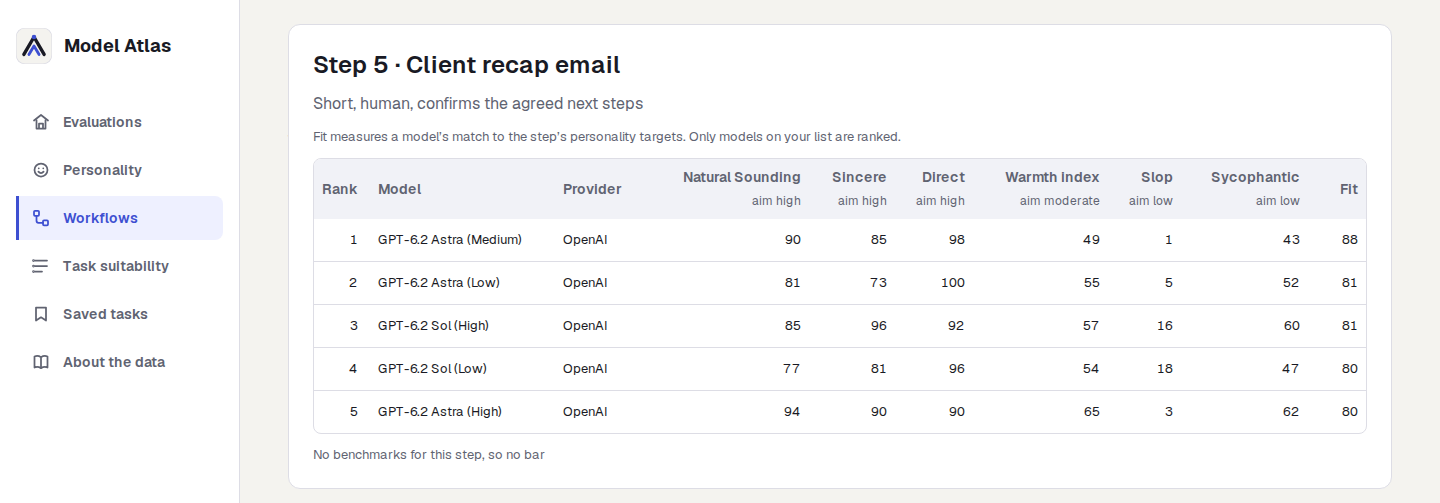
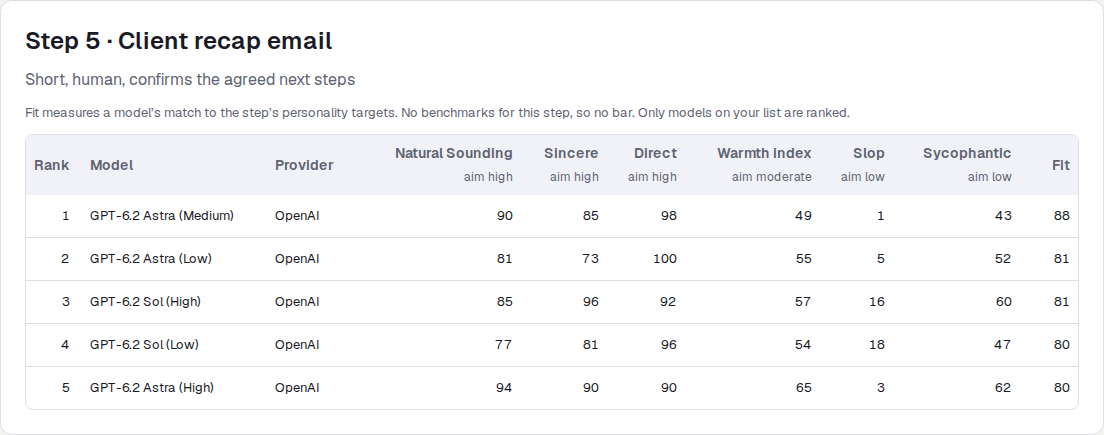
fix: keep off-list models out of the below-the-bar note
Phase 2 review (R2). The "Higher Fit, below the bar" line also named models
off the owner's list (DeepSeek V4.1 Flash (Max), Step 5 Preview); it now names
only listed models, as the brief says. A step with no benchmarks says "so no
bar" in its help text above the table, where the bar help would be.
Re-shot the changed step cards; 146 tests, tsc and the three browser checks pass.

diff --git a/tests/workflows.test.ts b/tests/workflows.test.ts
@@ -182,7 +182,7 @@ test("missing and duplicate evaluation slugs preserve active cutoffs and report 
   assert.deepEqual(rankStep(stepWithSkips, benchmarkDataset, workflowModelList, benchmarkRows).map(row => row.model.name), ["Pick"]);
 });
 
-test("step notes show up to three higher-Fit families for each reason and every missed rank", () => {
+test("step notes show up to three higher-Fit listed families below the bar, off-list ones that clear it, and every missed rank", () => {
   const [briefcase, omniscience] = benchmarkStep.evaluations;
   const { belowBar, notOnList, skippedEvaluations } = stepNotes(benchmarkStep, benchmarkDataset, workflowModelList, benchmarkRows);
   assert.deepEqual(belowBar.map(row => [row.model.name, row.missedEvaluations]), [
@@ -191,8 +191,10 @@ test("step notes show up to three higher-Fit families for each reason and every 
       { slug: omniscience, rank: 7, cohortSize: 16, barRank: 4 },
     ]],
     ["Beacon", [{ slug: briefcase, rank: null, cohortSize: 15, barRank: 3 }]],
-    ["Juniper", [{ slug: briefcase, rank: 8, cohortSize: 15, barRank: 3 }]],
+    ["Cedar", [{ slug: omniscience, rank: 5, cohortSize: 16, barRank: 4 }]],
   ]);
+  // Juniper (Fit 96.5) misses the bar but is off the list, so it belongs in neither line.
+  assert.ok(![...belowBar, ...notOnList].some(row => row.model.name === "Juniper"));
   assert.deepEqual(notOnList.map(row => row.model.name), ["Alternate (Max)", "Backup", "Contender"]);
   assert.deepEqual(skippedEvaluations, []);
 
@@ -573,7 +575,7 @@ test("a skipped evaluation keeps its unranked column and names the benchmark onc
   assert.match(detail, /<\/table>.*Skipped by the bar<\/strong> · GDP\.pdf<\/p>/);
   assert.doesNotMatch(detail, /No benchmarks for this step/);
   const noBar = renderBenchmarkStep({ ...benchmarkStep, evaluations: [] }).detail;
-  assert.match(noBar, /<\/table>.*No benchmarks for this step, so no bar/);
+  assert.match(noBar, /No benchmarks for this step, so no bar\. Only models on your list are ranked\..*<table/);
   assert.doesNotMatch(noBar, /Skipped by the bar/);
 });
 

diff --git a/src/components/workflow-view.tsx b/src/components/workflow-view.tsx
@@ -125,7 +125,7 @@ function WorkflowStepDetail({ step, dataset, masterRows }: {
       Fit measures a model’s match to the step’s personality targets.{" "}
       {evaluationSlugs.length > 0
         ? "Evaluation columns show its rank. Only models on your list that clear the bar are ranked."
-        : "Only models on your list are ranked."}
+        : "No benchmarks for this step, so no bar. Only models on your list are ranked."}
     </HelperText>
     {rows.length === 0 ? <HelperText><NoWorkflowPick /></HelperText> : <TableScroll label={`Step ${step.id} rankings, scroll horizontally for more columns`} showOverflowCue>
       <Table
@@ -188,7 +188,6 @@ function WorkflowStepDetail({ step, dataset, masterRows }: {
     {skippedEvaluations.length > 0 && <HelperText>
       <strong>Skipped by the bar</strong>{" · "}{skippedEvaluations.map(evaluationLabel).join(", ")}
     </HelperText>}
-    {evaluationSlugs.length === 0 && <HelperText>No benchmarks for this step, so no bar</HelperText>}
     {step.other_checks && <HelperText><strong>Also check (not in Model Atlas)</strong> · {step.other_checks}</HelperText>}
     {step.note && <p>{step.note}</p>}
   </Card>;

diff --git a/src/lib/workflows.ts b/src/lib/workflows.ts
@@ -208,7 +208,7 @@ export function stepNotes(
     ? candidates.filter(({ row }) => compareFit(row.fit, pick.fit, step.targets.length) < 0)
     : candidates.filter(({ listed }) => listed);
   const belowBar = firstThreeFamilies(noteCandidates
-    .filter(({ missedEvaluations }) => missedEvaluations.length > 0)
+    .filter(({ listed, missedEvaluations }) => listed && missedEvaluations.length > 0)
     .map(({ row, missedEvaluations }) => ({ ...row, missedEvaluations })));
   const notOnList = pick ? firstThreeFamilies(noteCandidates
     .filter(({ listed, missedEvaluations }) => !listed && missedEvaluations.length === 0)

diff --git a/docs/IMPLEMENTATION_PLAN.md b/docs/IMPLEMENTATION_PLAN.md
@@ -201,5 +201,5 @@ bar over weights: "rerun it with the top 25% bar". Also: put the meeting follow-
 | 2.2 | **The meeting workflow, redone checks and the how-to** [no look]. Read "Phase 2 brief" item 4 and its decisions. Write `workflows/client-meeting-followup.json` from the table in item 4 (slug `client-meeting-followup`, title "Client meeting follow-up", notes as given) and add it to the registry. To check the scorer, first write a short script inside the check doc (a code block run with `node`) that reads only `data/aa-personalitybench.json`, `workflows/models.json` and the master rows from `getMasterDataset()`, and does not import `src/lib/workflows.ts`. It works out each step's pick and runners-up with the list and the bar. Write `docs/workflows/client-meeting-followup-check.md`: one row per step with the script's picks and the app's, each with its Fit and its ranks against the bar, beside the chat picks in item 4. The script and the app must agree on every step. Every difference from the chat picks gets a reason naming the rank, cohort or Fit behind it, specific to that row. Redo the picks rows of `docs/workflows/sales-proposal-check.md` the same way (script and app agree), keeping its targets table. Confirm or correct the pins 2.1 marked "re-checked in 2.2", and pin the meeting workflow's picks for all six steps. Add a "Your models and the benchmark bar" section to `docs/WORKFLOWS.md`: how to add or remove a model from `workflows/models.json` (finding the family from the data files, with the NUL rule), with one worked example, what the bar does, and where `BENCHMARK_BAR` lives. Fix any bug found in `src/lib/workflows.ts` with a test. **Done when**:<br>• Both workflow files validate, and a test checks that the meeting file's 6 steps have the targets, evaluations and notes of item 4.<br>• In both check docs, the script's picks equal the app's on every step.<br>• Every difference from the chat picks has a row-specific reason, and none is put down to a bug that is still unfixed.<br>• No test pin is still marked "re-checked in 2.2".<br>• `tsc` and the tests pass. | Sol Max | Facts checked against a source: Omniscience 29 | 2026-11-19 · 141 tests passed, 20 steps matched |
 | 2.3 | **Show the list and the bar on the pages** [look]. Read "Phase 2 brief" item 3; `src/components/workflow-view.tsx`, `src/app/workflows/page.tsx`, `src/app/workflows/[slug]/page.tsx`, the workflow rules in `src/app/globals.css`, and the UI rule in `AGENTS.md`. Add the header line, the "Your models" card on `/workflows` (the no-personality-scores note worked out from the data), and under each step's table the two note lines, the skipped-evaluation line and step 5's "no bar" line. Update the help text above a step's table to say only listed models that clear the bar are ranked. Show "—" plus "No model on your list clears the bar" when there is no pick. Use the existing primitives and styles, with no new colours. Add `renderToStaticMarkup` tests, as Phase 1 did, for these states on fixtures: no pick, one runner-up only, a table with fewer than 5 rows, a skipped evaluation, and a card where every family has personality rows (no note). Run the dev server, stop it by its PID, and take shots to `docs/screenshots/workflows/phase2/`. **Done when** the shots show:<br>• At 1440px and 390px: `/workflows` with two workflow cards and the Your models card, all eight labels wrapping inside the card and Qwen4 Max named as having no personality scores yet.<br>• At 1440px: the meeting follow-up overview with 6 steps and no sideways scroll.<br>• At 1440px: the meeting workflow's step 1 detail with a "Higher Fit, below the bar" line naming a model, its rank and the bar rank.<br>• At 1440px: step 5's detail with "No benchmarks for this step, so no bar".<br>• At 1440px: the sales proposal's step 6 detail with its notes.<br>• At 390px: the meeting overview with Step pinned, scrolling sideways inside its frame with no page scroll.<br>• At 390px: the detail of the step with the most note entries across both workflows (named in the commit), every entry wrapping inside the card and no word cut off.<br>• The page header line reads in full at 390px.<br>• The new render tests, `tsc` and all the tests pass. | Sol xHigh | Changes to built pages from a written spec: Presentation 9 | 2026-11-19 · 146 tests passed, screenshots reviewed |
 | 2.4 | **Browser check** [look]. Production build, then `next start` through the node `next` bin, stopped by its PID (memory `next-start-pid`), on the bundled data. Update `scripts/check-workflows-browser.mjs`: hard-code the sales proposal's new picks from its check doc, and add the meeting workflow (6 rows; picks for steps 1, 4 and 6 hard-coded from its check doc, not taken from `stepPicks`). Then run it with `scripts/check-master-browser.mjs` and `scripts/check-personality-browser.mjs`, their expectations unedited. **Done when**:<br>• All three scripts pass.<br>• Both workflow pages show their hard-coded picks.<br>• The Your models card lists all eight labels.<br>• Step 1 of the meeting workflow shows a below-the-bar line.<br>• No new shots; 2.3 has them. | Sol High | Build, server, browser and shots: Terminal Bench 17 | 2026-11-19 · three browser checks passed, seven picks verified |
-| R2 | **Phase 2 review**: the diff from 2c3f3e4, both check docs (including their scripts), and the 2.3 shots. Quick fixes only; the rest become fix rows under this one. **Done when**:<br>• Two steps are worked out by hand from the bundled data files, and the page matches: meeting step 1 (the bar drops a model) and meeting step 4 (an index target), with the bar computed from the page's rank and cohort.<br>• A model is added to `workflows/models.json` by following only `docs/WORKFLOWS.md`, changes a pick as expected, and is then removed.<br>• Every FINDING is fixed or has a fix row.<br>• If a fix touched the scorer or a page, 2.4's checks run again and pass. | Opus 5.5 High | Other family from the build (all GPT) | |
+| R2 | **Phase 2 review**: the diff from 2c3f3e4, both check docs (including their scripts), and the 2.3 shots. Quick fixes only; the rest become fix rows under this one. **Done when**:<br>• Two steps are worked out by hand from the bundled data files, and the page matches: meeting step 1 (the bar drops a model) and meeting step 4 (an index target), with the bar computed from the page's rank and cohort.<br>• A model is added to `workflows/models.json` by following only `docs/WORKFLOWS.md`, changes a pick as expected, and is then removed.<br>• Every FINDING is fixed or has a fix row.<br>• If a fix touched the scorer or a page, 2.4's checks run again and pass. | Opus 5.5 High | Other family from the build (all GPT) | 2026-11-19 · meeting 1, 4 hand-checked; Gemini 4 Argon added, removed; 2 findings fixed; 2.4 checks passed |
 | O2 | *owner*: release with `git push origin workflows:main` (no `publish:data`). On the live site, open Workflows → Client meeting follow-up and check the picks against your list. | — | — | |
